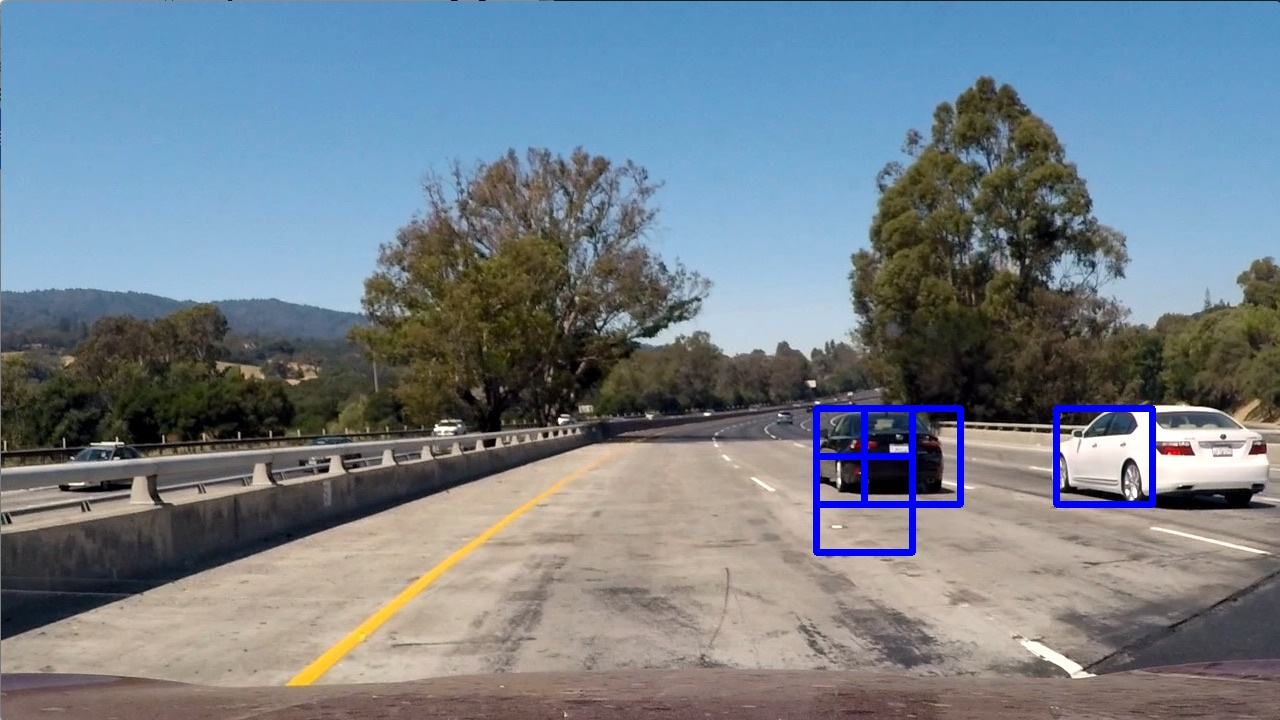
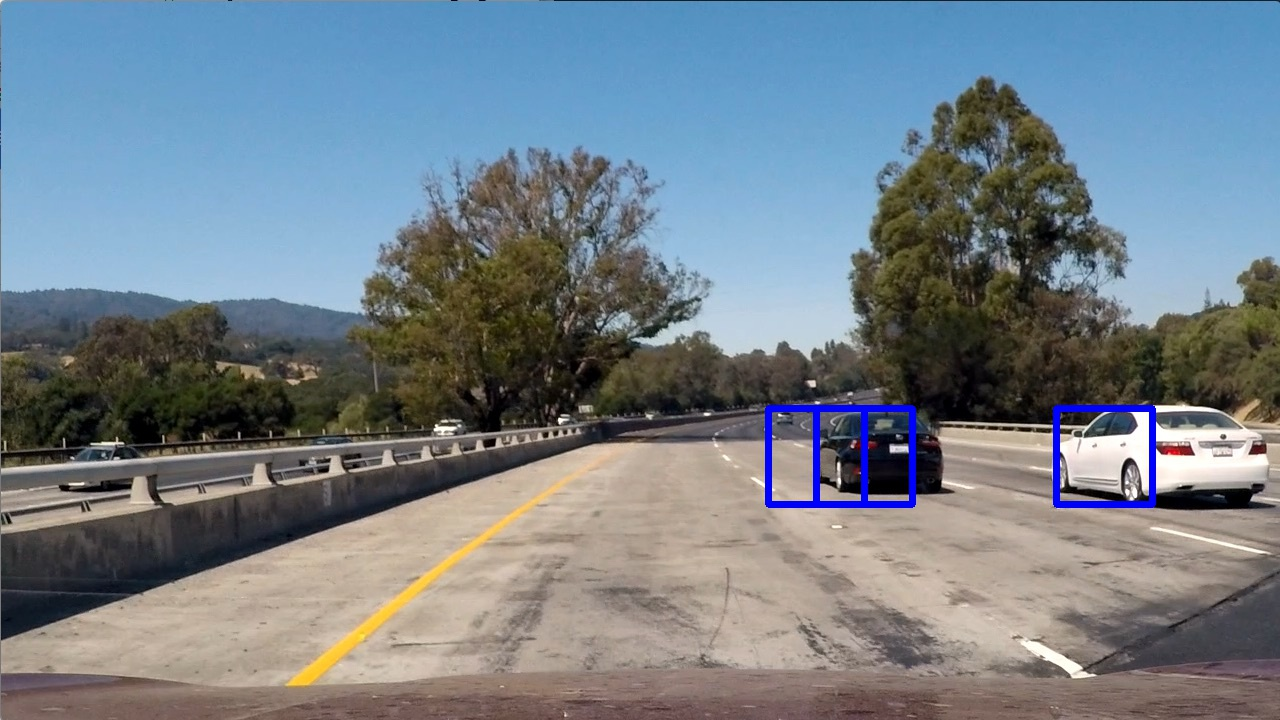
second

Changed region(s): [[0.5938, 0.55, 0.7812, 0.7944], [0.7188, 0.55, 0.75, 0.5806]]

diff --git a/search_classify.py b/search_classify.py
@@ -117,9 +117,10 @@ hog_channel = 'ALL' # Can be 0, 1, 2, or "ALL"
 spatial_size = (16, 16) # Spatial binning dimensions
 hist_bins = 64    # Number of histogram bins
 spatial_feat = True # Spatial features on or off
-hist_feat = True # Histogram features on or off
+hist_feat = False # Histogram features on or off
 hog_feat = True # HOG features on or off
-y_start_stop = [360, None] # Min and max in y to search in slide_window()
+y_start_stop = [360, 670] # Min and max in y to search in slide_window()
+#do distortion correction
 
 car_features = extract_features(cars, color_space=color_space,
                         spatial_size=spatial_size, hist_bins=hist_bins,
